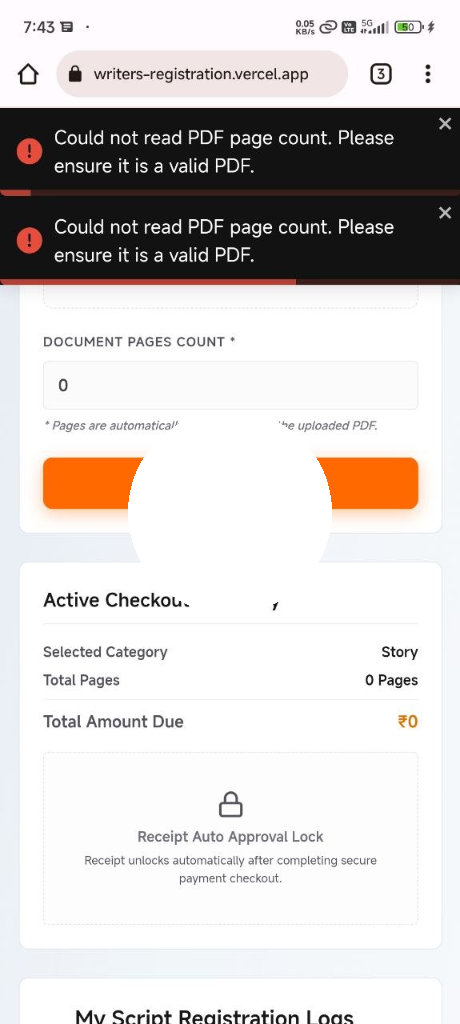
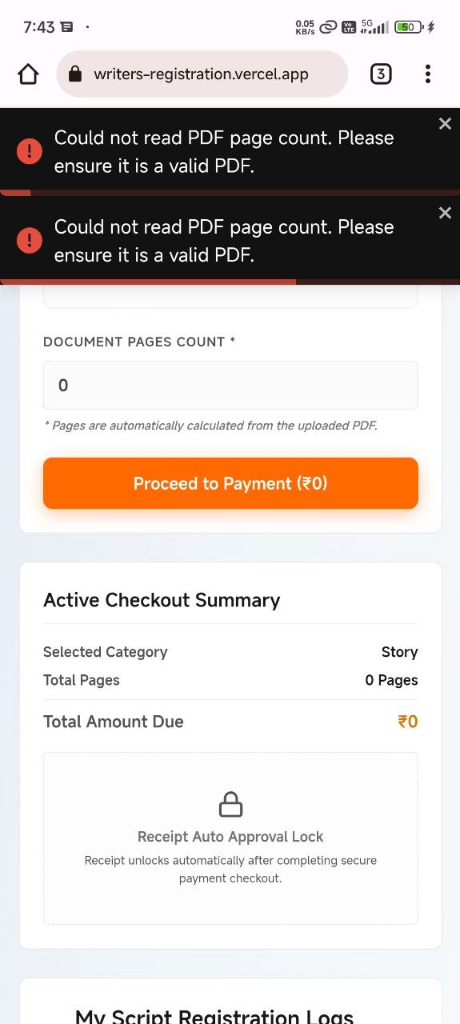
refactor: update payment terminology and remove deprecated registration details from receipt PDF generation

Changed region(s): [[0.2739, 0.4062, 0.7304, 0.5312], [0.3957, 0.5625, 0.6087, 0.5938]]

diff --git a/user-writers-registration/src/pages/Dashboard.jsx b/user-writers-registration/src/pages/Dashboard.jsx
@@ -144,7 +144,7 @@ export default function Dashboard({ member, setMember, onLogout }) {
       return;
     }
     if (!razorpayKeyId) {
-      toast.error("Razorpay key is missing. Please configure VITE_RAZORPAY_KEY_ID and redeploy.");
+      toast.error("Payment configuration is missing. Please contact support.");
       return;
     }
 
@@ -223,7 +223,7 @@ export default function Dashboard({ member, setMember, onLogout }) {
 
   const requestReceiptDownload = (reg) => {
     if (reg.downloadCount >= 1) {
-      toast.error("This receipt is locked. Re-download requires Razorpay payment.");
+      toast.error("This receipt is locked. Re-download requires a new payment.");
       setReceiptModal({ type: 'unlock', registration: reg });
       return;
     }
@@ -259,18 +259,6 @@ export default function Dashboard({ member, setMember, onLogout }) {
         
         // Add stamp image to top right corner
         docPdf.addImage(stampImg, 'PNG', 145, 45, 45, 45);
-        
-        // Add dynamic text inside the stamp
-        docPdf.setFontSize(9);
-        docPdf.setTextColor(1, 10, 80); // Dark blue matching stamp
-        docPdf.setFont("helvetica", "bold");
-        docPdf.text("REGD.NO:", 167.5, 65, null, null, "center");
-        docPdf.setFontSize(10);
-        docPdf.text(`${reg.membershipId}`, 167.5, 70, null, null, "center");
-        
-        // Reset colors
-        docPdf.setTextColor(0, 0, 0);
-        docPdf.setFont("helvetica", "normal");
       } catch (e) {
         console.error("Could not load stamp image", e);
       }
@@ -373,7 +361,7 @@ export default function Dashboard({ member, setMember, onLogout }) {
   const handleUnlockDownload = async (reg) => {
     setReceiptModal({ type: null, registration: null });
     if (!razorpayKeyId) {
-      toast.error("Razorpay key is missing.");
+      toast.error("Payment configuration is missing.");
       return;
     }
     setIsDownloading(true);

diff --git a/user-writers-registration/src/components/dashboard/ReceiptModal.jsx b/user-writers-registration/src/components/dashboard/ReceiptModal.jsx
@@ -65,9 +65,9 @@ export default function ReceiptModal({ receiptModal, isDownloading, closeReceipt
                 type="button"
                 onClick={() => handleUnlockDownload(receiptModal.registration)}
                 disabled={isDownloading}
-                className="w-full rounded bg-amber-500 px-4 py-3 text-sm font-extrabold text-white hover:bg-amber-600 disabled:opacity-60"
+                className="w-full rounded bg-amber-500 px-4 py-3 text-sm font-extrabold text-white hover:bg-amber-600 disabled:opacity-60 cursor-pointer"
               >
-                {isDownloading ? 'Opening Razorpay...' : `Pay ₹${receiptModal.registration.amount} with Razorpay`}
+                {isDownloading ? 'Opening Secure Payment...' : `Pay ₹${receiptModal.registration.amount} Securely`}
               </button>
             </>
           )}
